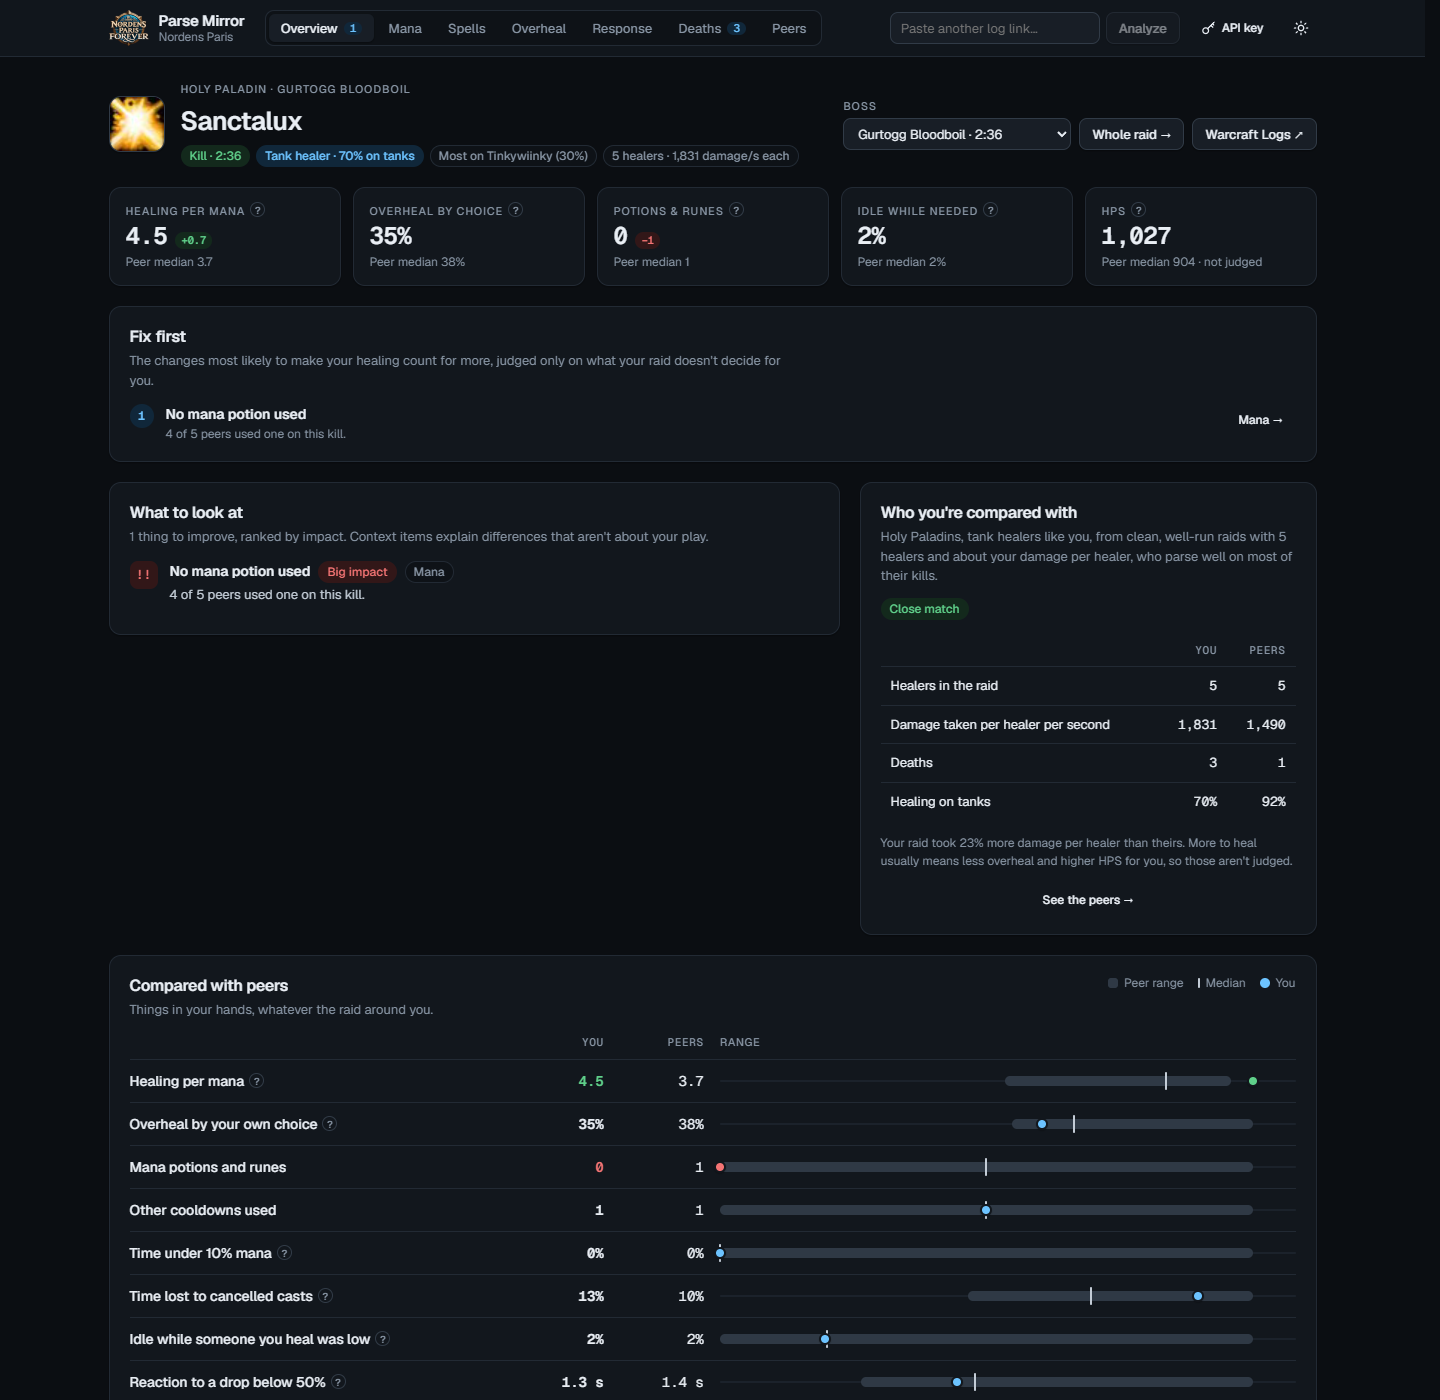
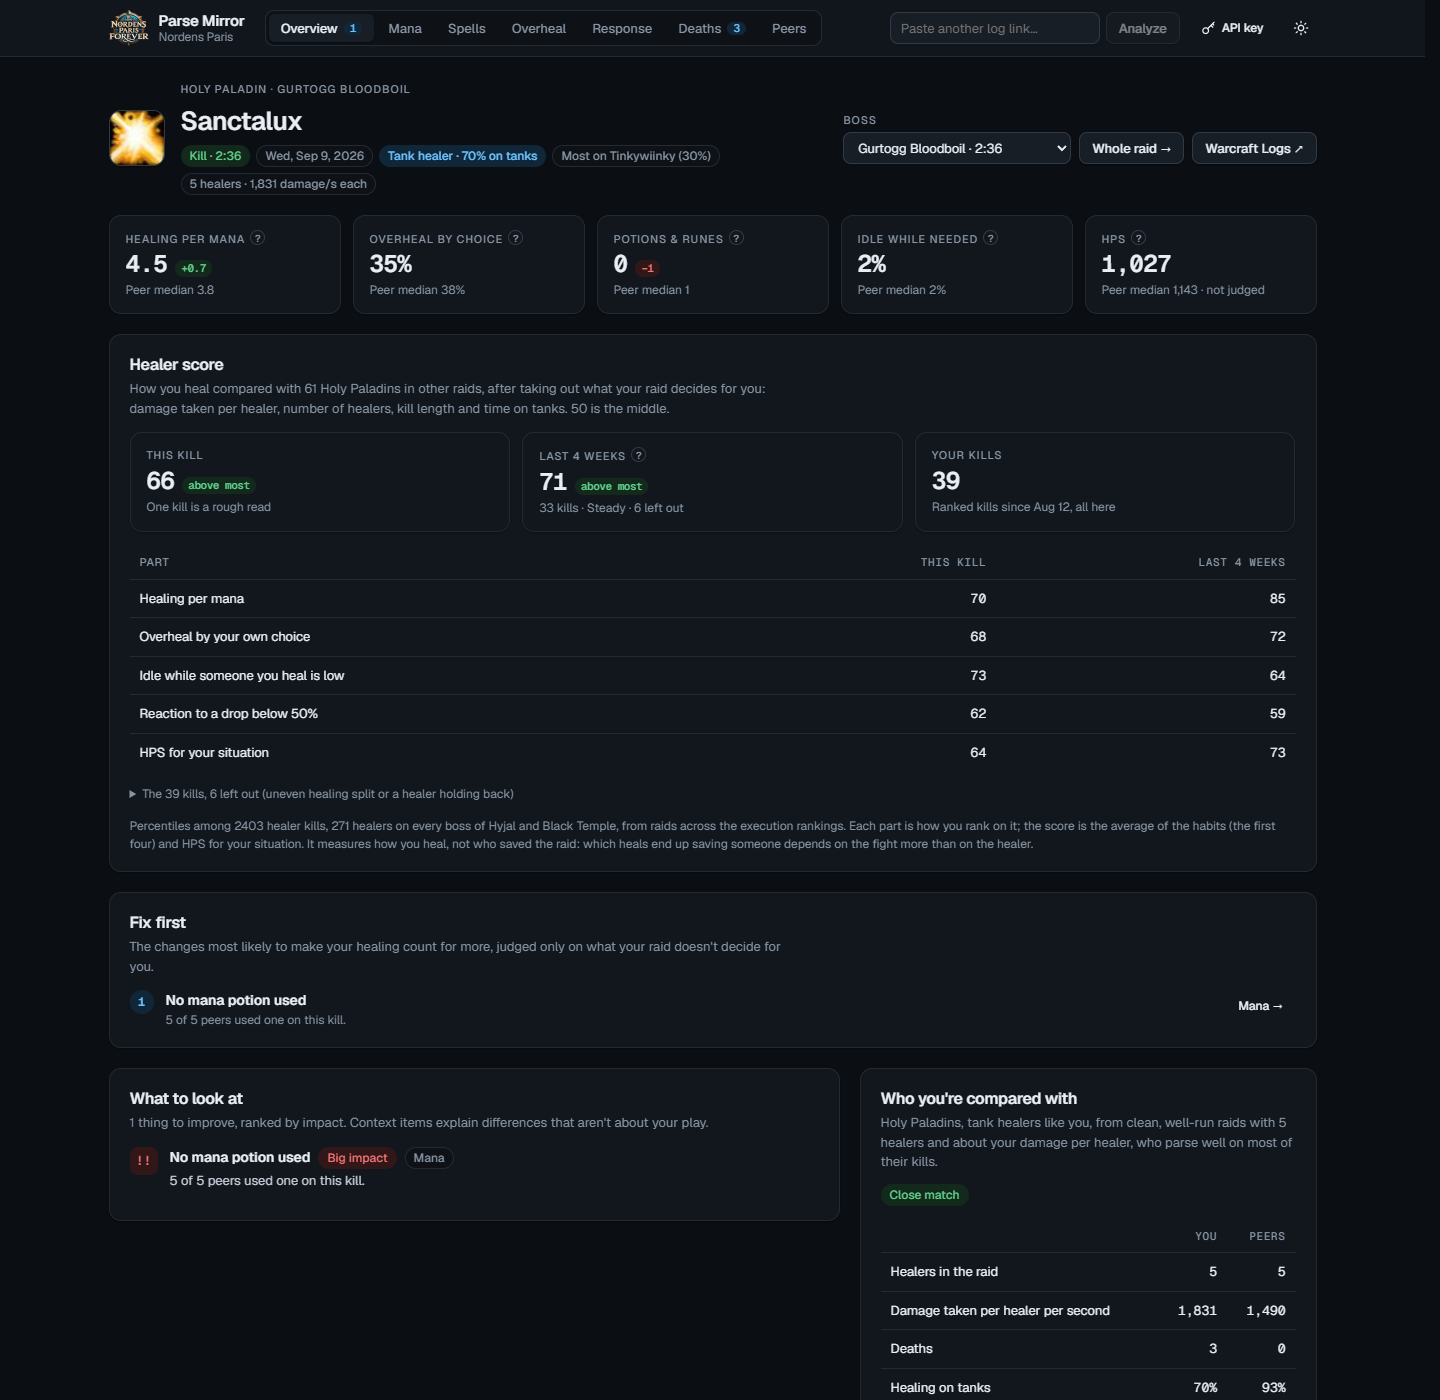
Parse Mirror v0.3.3: nye skærmbilleder i README'en
Alle 33 er taget igen fra den nuværende version.

diff --git a/tools/parse-mirror/scripts/screenshots.ts b/tools/parse-mirror/scripts/screenshots.ts
@@ -145,6 +145,10 @@ async function shots(page: Page) {
   log('Healer: Holy Paladin on Bloodboil');
   await open(HEALER);
   await page.waitForSelector('.kpis', { timeout: 300_000 });
+  // The healer score's 4-week column: find the kills and score them.
+  await page.waitForFunction(() => !document.body.innerText.includes('Finding your kills') && !document.body.innerText.includes('Looking up your ranked kills'), { timeout: 120_000 });
+  await click('more kill');
+  await page.waitForFunction(() => !document.body.innerText.includes('Fetching kills') && !/Score \d+ more kill/.test(document.body.innerText), { timeout: 300_000 });
   await view('21-healer.png', 1400);
   await tab('Mana');
   await panel('22-healer-mana.png', 'Mana over the kill');

diff --git a/tools/parse-mirror/CHANGELOG.md b/tools/parse-mirror/CHANGELOG.md
@@ -9,6 +9,13 @@ version udgives under
 [Releases](https://github.com/nordens-paris/tools/releases?q=parse-mirror&expanded=true); de er
 markeret med **Windows-pakke** her.
 
+## v0.3.3 (30. oktober 2026)
+
+### Forbedret
+
+- **Skærmbillederne i README'en** er taget igen, så de viser raidets dato, healer score over fire
+  uger og wipes under **Show healers**.
+
 ## v0.3.2 (30. oktober 2026) · Windows-pakke
 
 ### Forbedret
